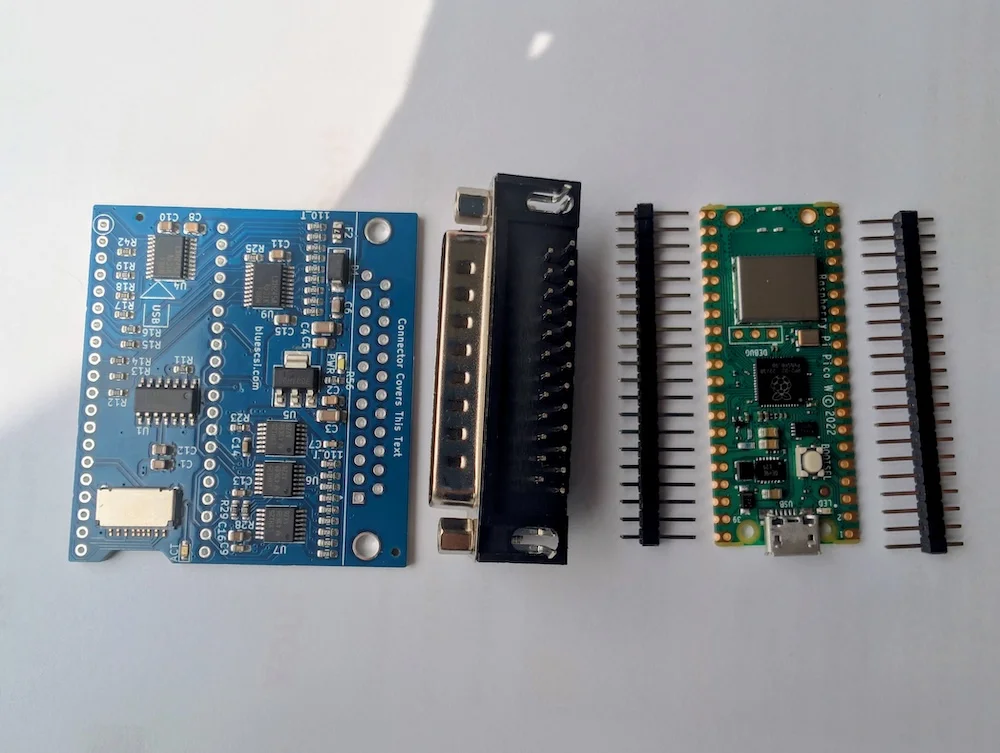
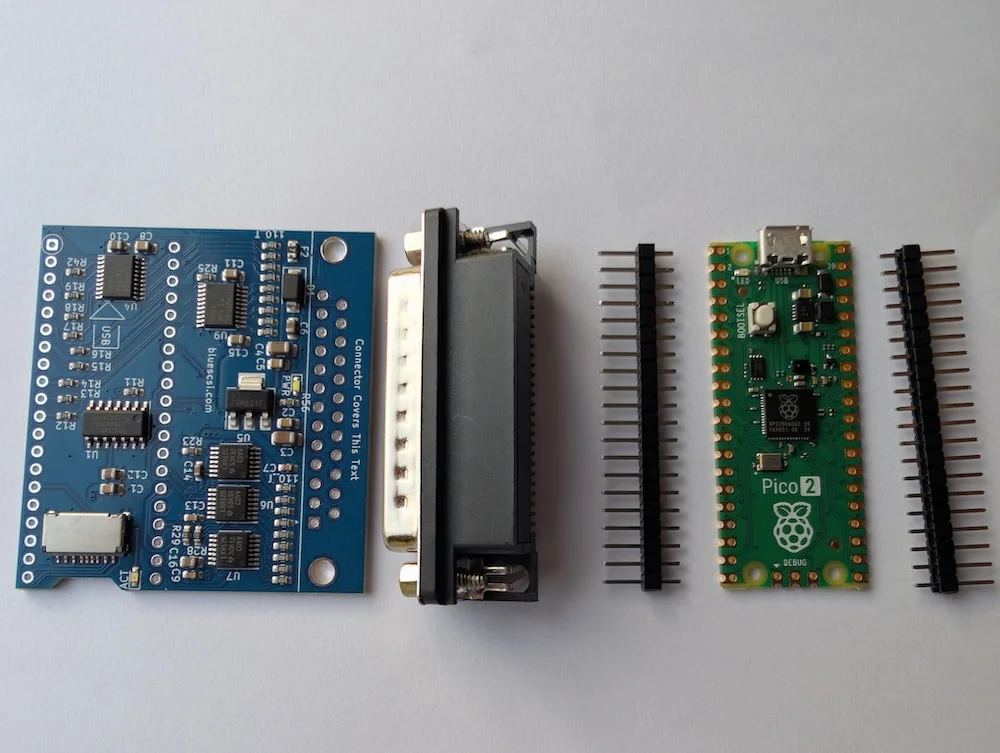
update to remove old pico ref from pb and db25

diff --git a/picow.md b/picow.md
@@ -1,0 +1,28 @@
+---
+layout: page
+title: Pico Wifi Upgrade
+permalink: /picow
+cart_itemid: picowifi
+cart_name: "BlueSCSI V2 Pico Wifi Upgrade"
+cart_description: "BlueSCSI Pico Wifi for V2"
+cart_price: 4
+cart_image: "assets/img/pico-w.webp"
+cart_image1: "assets/img/picowifi.webp"
+tags: 
+  - scsi
+  - v2
+---
+
+##### 🇬🇧🇪🇺🇺🇸 BlueSCSI Pico Wifi Upgrade 🇬🇧🇪🇺🇺🇸
+
+{% include carousel2.html %}
+
+This is to purchase a Pico Wifi version (with a BlueSCSI of course) rather than the normal non wifi Pico. This is the extra cost of the wifi version added to the order. Add this item to your Cart if you want a Pico Wifi installed to the fully assembled BlueSCSI or your kit version of the BlueSCSI. Please do NOT add it if you are purchasing a board ONLY kit as this kit does not include a Pico. The latest firmware is already flashed and this includes the Wifi element.
+
+* Additional cost of Wifi Pico
+* Upgrades your order to replace Pico with Pico W
+* ONLY purchase with a BlueSCSI V2 fully assembled or kit
+* Latest Firmware will be pre-flashed
+
+
+##### £{{page.cart_price}} &nbsp; {{site.icon}}[Add to cart](/cart#{{page.cart_itemid}})

diff --git a/pico2w.md b/pico2w.md
@@ -19,8 +19,8 @@ tags:
 
 This is to purchase a new Pico 2 W (with a BlueSCSI of course) rather than the normal wifi v1 Pico. This is the extra cost of the new version added to your order. Add this item to your Cart if you want a Pico 2 W installed to the fully assembled BlueSCSI or your kit version of the BlueSCSI. Please do NOT add it if you are purchasing a board ONLY kit as this kit does not include a Pico. The latest universal firmware is already flashed. The Pico 2 does bring some write speed improvements. See here [https://github.com/BlueSCSI/BlueSCSI-v2/pull/218](https://github.com/BlueSCSI/BlueSCSI-v2/pull/218)
 
-* Additional cost of Pico 2 W
-* Upgrades your order to replace Pico with Pico 2 W
+* Additional cost of Pico 2 Wifi
+* Upgrades your order to replace Pico with Pico 2 Wifi
 * ONLY purchase with a BlueSCSI V2 fully assembled or kit
 * Universal Firmware will be pre-flashed
 

diff --git a/v2db25minikiteu.md b/v2db25minikiteu.md
@@ -19,11 +19,11 @@ tags:
 
 This is version (2024.01a) of the BlueSCSI DB25 Mini Kit for EU buyers. This is usually used externally from the computer. Some soldering will be required to complete this device. If you prefer a complete and tested device please choose the Full option. The Suface Mount Components are pre-soldered to the PCB so only through hole soldering is required. The normal hex nuts have been replaced with screws so as to allow plugging into the 25 pin socket flush.
 
-* Mini Version with Pico W (wifi)
+* Mini Version with Pico 2
 * SMD already soldered
 * Hex nuts replaced with screws
 * Always on termination (no termination jumper)
-* Click &#8594; [Add Pico 2](/pico2) [Add Pico 2 W](/pico2w)
+* Click &#8594; [Add Pico 2 W](/pico2w)
 
 {% if site.db25 > 0 %}
 ##### £{{page.cart_price}} &nbsp; {{site.icon}}[Add to cart](/cart#{{page.cart_itemid}})

diff --git a/v2db25minikituk.md b/v2db25minikituk.md
@@ -19,11 +19,11 @@ tags:
 
 This is version (2024.01a) of the BlueSCSI DB25 Mini Kit for UK buyers. This is usually used externally from the computer. Some soldering will be required to complete this device. If you prefer a complete and tested device please choose the Full option. The Suface Mount Components are pre-soldered to the PCB so only through hole soldering is required. The normal hex nuts have been replaced with screws so as to allow plugging into the 25 pin socket flush.
 
-* Mini Version with Pico W (wifi)
+* Mini Version with Pico 2
 * SMD already soldered
 * Hex nuts replaced with screws
 * Always on termination (no termination jumper)
-* Click &#8594; [Add Pico 2](/pico2) [Add Pico 2 W](/pico2w)
+* Click &#8594; [Add Pico 2 W](/pico2w)
 
 {% if site.db25 > 0 %}
 ##### £{{page.cart_price}} &nbsp; {{site.icon}}[Add to cart](/cart#{{page.cart_itemid}})

diff --git a/v2powerbookkituk.md b/v2powerbookkituk.md
@@ -16,12 +16,12 @@ tags:
 
 {% include carousel2.html %}
 
-This is the NEW version 2 Powerbook Kit version of the BlueSCSI for UK buyers. This has connector for Mac Powerbooks and some soldering will be required. This is kit version NOT a complete and tested device.
+This is the version 2 Powerbook Kit version of the BlueSCSI for UK buyers. This has connector for Mac Powerbooks and some soldering will be required. This is kit version NOT a complete and tested device.
 
-* New Version with Pico W (wifi)
+* New Version with Pico 2
 * Kit version with all parts
 * Soldering required
-* Click &#8594; [Add Pico 2](/pico2) [Add Pico 2 W](/pico2w)
+* NO WIFI - Click &#8594; [Add Pico 2 Wifi](/pico2w)
 
 {% if site.powerbook > 0 %}
 ##### £{{page.cart_price}} &nbsp; {{site.icon}}[Add to cart](/cart#{{page.cart_itemid}})

diff --git a/v2desktopanglekiteu.md b/v2desktopanglekiteu.md
@@ -6,7 +6,7 @@ cart_name: "V2 BlueSCSI Desktop Kit EU"
 cart_description: "V2 BlueSCSI Desktop 50pin Solder Kit Right Angle"
 cart_price: 54
 cart_image: "assets/img/desktop1.webp"
-cart_image1: "assets/img/kitextras.webp"
+cart_image1: "assets/img/kits.webp"
 permalink: /desktopkiteu2
 tags: 
   - scsi
@@ -23,7 +23,7 @@ This is the NEW board revision (2023.10a) Desktop V2 Kit version of the BlueSCSI
 * SMD already soldered
 * Right Angle headers
 * Includes pre-flashed Pico
-* Click &#8594; [Add Pico 2](/pico2) [Add Pico 2 W](/pico2w)
+* NO WIFI - Click &#8594; [Add Pico Wifi](/picow) [Add Pico 2](/pico2) [Add Pico 2 Wifi](/pico2w)
 
 {% if site.desktop > 0 %}
 ##### £{{page.cart_price}} &nbsp; {{site.icon}}[Add to cart](/cart#{{page.cart_itemid}})

diff --git a/v2desktopanglekituk.md b/v2desktopanglekituk.md
@@ -6,7 +6,7 @@ cart_name: "V2 BlueSCSI Desktop Kit UK"
 cart_description: "V2 BlueSCSI Desktop 50pin Solder Kit Right Angle"
 cart_price: 38
 cart_image: "assets/img/desktop1.webp"
-cart_image1: "assets/img/kitextras.webp"
+cart_image1: "assets/img/kits.webp"
 permalink: /desktopkituk2
 tags: 
   - scsi
@@ -23,7 +23,7 @@ This is the NEW board revision (2023.10a) Desktop V2 Kit version of the BlueSCSI
 * SMD already soldered
 * Right Angle headers
 * Includes pre-flashed Pico
-* Click &#8594; [Add Pico 2](/pico2) [Add Pico 2 W](/pico2w)
+* NO WIFI - Click &#8594; [Add Pico Wifi](/picow) [Add Pico 2](/pico2) [Add Pico 2 Wifi](/pico2w)
 
 {% if site.desktop > 0 %}
 ##### £{{page.cart_price}} &nbsp; {{site.icon}}[Add to cart](/cart#{{page.cart_itemid}})

diff --git a/v2db25minieu.md b/v2db25minieu.md
@@ -19,11 +19,11 @@ tags:
 
 This is the NEW version (2024.01a) DB25 Mini Full version of the BlueSCSI for EU buyers. This is usually used externally from the computer. This is a complete and tested device. The normal hex nuts have been replaced with flat screws so as to allow plugging into the 25 pin socket flush.
 
-* New Mini Version with Pico W (wifi)
+* New Mini Version with Pico 2
 * Tested and complete
 * Hex nuts replaced with screws
 * Always on termination (no termination jumper)
-* Click &#8594; [Add Pico 2](/pico2) [Add Pico 2 W](/pico2w)
+* Click &#8594; [Add Pico 2 W](/pico2w)
 
 {% if site.db25 > 0 %}
 ##### £{{page.cart_price}} &nbsp; {{site.icon}}[Add to cart](/cart#{{page.cart_itemid}})

diff --git a/v2db25miniuk.md b/v2db25miniuk.md
@@ -19,11 +19,11 @@ tags:
 
 This is version (2024.01a) of the BlueSCSI DB25 Mini for UK buyers. This is usually used externally from the computer. This is a complete and tested device. The normal hex nuts have been replaced with screws so as to allow plugging into the 25 pin socket flush.
 
-* Mini Version with Pico W (wifi)
+* Mini Version with Pico 2
 * Tested and complete
 * Hex nuts replaced with screws
 * Always on termination (no termination jumper)
-* Click &#8594; [Add Pico 2](/pico2) [Add Pico 2 W](/pico2w)
+* Click &#8594; [Add Pico 2 W](/pico2w)
 
 {% if site.db25 > 0 %}
 ##### £{{page.cart_price}} &nbsp; {{site.icon}}[Add to cart](/cart#{{page.cart_itemid}})

diff --git a/v2powerbookeu.md b/v2powerbookeu.md
@@ -18,10 +18,9 @@ tags:
 
 This is the NEW version 2 Powerbook Full version of the BlueSCSI for 🇪🇺 EU and rest of the World buyers. This has a slim SCSI connector for Mac Powerbooks. This is a complete and tested device.
 
-* New Version with Pico W (wifi)
-* Fully tested on a PB 165C
+* New Version with Pico 2
 * Tested and complete
-* Click &#8594; [Add Pico 2](/pico2) [Add Pico 2 W](/pico2w)
+* NO WIFI - Click &#8594; [Add Pico 2 Wifi](/pico2w)
 
 {% if site.powerbook > 0 %}
 ##### £{{page.cart_price}} &nbsp; {{site.icon}}[Add to cart](/cart#{{page.cart_itemid}})

diff --git a/v2powerbookuk.md b/v2powerbookuk.md
@@ -18,10 +18,10 @@ tags:
 
 This is the NEW version 2 Powerbook Full version of the BlueSCSI for UK buyers. This has a slim SCSI connector for Mac Powerbooks. This is a complete and tested device.
 
-* New Version with Pico W (wifi)
+* New Version with Pico 2
 * Fully tested on a PB 165C
 * Tested and complete
-* Click &#8594; [Add Pico 2](/pico2) [Add Pico 2 W](/pico2w)
+* NO WIFI - Click &#8594; [Add Pico 2 Wifi](/pico2w)
 
 {% if site.powerbook > 0 %}
 ##### £{{page.cart_price}} &nbsp; {{site.icon}}[Add to cart](/cart#{{page.cart_itemid}})

diff --git a/v2desktopangleeu.md b/v2desktopangleeu.md
@@ -22,7 +22,7 @@ This is version (2023.10a) of the BlueSCSI V2 Desktop for EU buyers. This has a 
 * Latest PCB revision 2023.10a
 * Right Angle headers
 * Tested and complete
-* Click &#8594; [Add Pico 2](/pico2) [Add Pico 2 W](/pico2w)
+* NO WIFI - Click &#8594; [Add Pico Wifi](/picow) [Add Pico 2](/pico2) [Add Pico 2 Wifi](/pico2w)
 
 {% if site.desktop > 0 %}
 ##### £{{page.cart_price}} &nbsp; {{site.icon}}[Add to cart](/cart#{{page.cart_itemid}})
